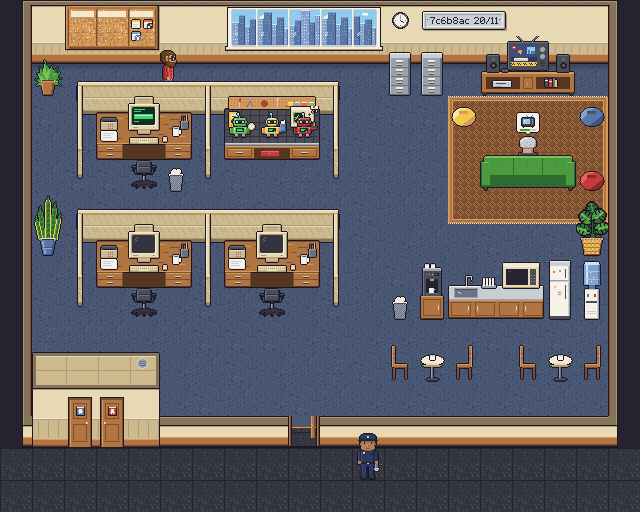
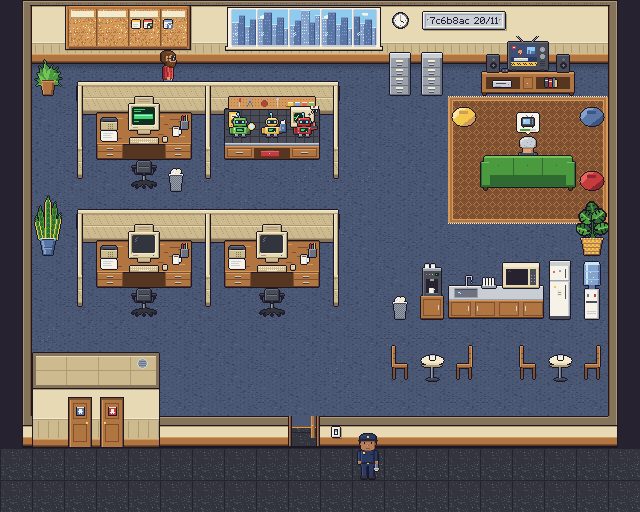
docs: o menu, os comandos e os créditos no padrão da tela; o quadro com quatro colunas e o interruptor
O briefing-tela-4 pede as três janelas que ainda estavam no visual antigo com
a moldura do Sobre, o quadro da parede com quatro colunas (decor.json e
cards.columns do cenário) e explica por que o interruptor não aparece no
mundo ao vivo: os sistemas OnSessionStart não rodam na recuperação.

A folha de ícones ganha a lâmpada acesa e a apagada (light_on, light_off),
o interruptor é redesenhado na faixa creme da parede de baixo, e as prévias
da noite e da versão mostram o quadro novo.

Claude-Session: https://claude.ai/code/session_01BURa66aaHAm5tC4w4uDtJx

Changed region(s): [[0.1875, 0.0, 0.3125, 0.125], [0.5, 0.8125, 0.5312, 0.875]]

diff --git a/docs/design/escritorio-arte/escritorio-arte.html b/docs/design/escritorio-arte/escritorio-arte.html
@@ -349,6 +349,19 @@ function relogio(h = 10) {
   return s;
 }
 
+// ---- o interruptor (22/11): na face da parede de baixo, à direita da porta (ADR-0088). Só o espelho
+// com a tecla, sem fundo: a parede é do terreno. Apagado, a tecla embaixo; aceso, em cima, com o led âmbar.
+function interruptor(aceso) {
+  const s = new Spr(T, T);
+  s.r(12, 11, 8, 10, 'branco').vl(19, 12, 20, 'cinzaCl').hl(13, 19, 20, 'cinzaCl');      // o espelho
+  s.hl(12, 19, 10, 'contorno').hl(12, 19, 21, 'contorno').vl(11, 11, 20, 'contorno').vl(20, 11, 20, 'contorno');
+  s.p(21, 12, 'begeSomb').vl(21, 13, 21, 'begeSomb').hl(13, 21, 22, 'madEsc');           // a sombra na parede
+  s.r(14, 13, 4, 6, 'cinzaCl').hl(14, 17, 13, 'contorno').hl(14, 17, 18, 'contorno').vl(14, 13, 18, 'contorno').vl(17, 13, 18, 'contorno');
+  if (aceso) s.r(15, 14, 2, 2, 'branco').r(15, 16, 2, 2, 'cinza').p(18, 12, 'ledAmbar');   // a tecla para cima
+  else s.r(15, 14, 2, 2, 'cinza').r(15, 16, 2, 2, 'branco');                             // a tecla para baixo
+  return s;
+}
+
 // ---- quadro dos pedidos: um módulo por coluna (começo, meio, fim)
 function quadroPedidos(tipo) {
   const s = new Spr(T, 64);
@@ -1431,6 +1444,21 @@ const PR_RAMO = ponta => [
 ].map((l, k) => l.replace(/#/g, k < 5 ? ponta : 'w'));
 // A ficha do quadro, como na parede (9 × 12 + contorno)
 const FICHA_IC = ['yyyyyyyyy', 'yyyyyyyyy', 'wwwwwwwww', 'wllllllww', 'wwwwwwwww', 'wlllllwww', 'wwwwwwwww', 'wllllwwww', 'wwwwwwwww', 'wwwwwwwww', 'wwwwwwwww', 'RRRRRRRRR'];
+// A lâmpada: o bulbo (cor, luz, brilho) e a rosca cinza
+const LAMPADA = (c, L, w) => [
+  '..cccc..'.replace(/c/g, c),
+  '.cwLLcc.'.replace(/c/g, c).replace(/L/g, L).replace('w', w),
+  'cwLLcccc'.replace(/c/g, c).replace(/L/g, L).replace('w', w),
+  'cLLccccc'.replace(/c/g, c).replace(/L/g, L),
+  'cLcccccc'.replace(/c/g, c).replace(/L/g, L),
+  'cccccccc'.replace(/c/g, c),
+  '.cccccc.'.replace(/c/g, c),
+  '..cccc..'.replace(/c/g, c),
+  '..llll..',
+  '..ssss..',
+  '..llll..',
+  '...ss...',
+];
 const ICONES_DESENHO = {
   // ---- o escritório
   trabalhar: () => ic([grade([
@@ -1809,6 +1837,14 @@ const ICONES_DESENHO = {
     '..aaAAAAaa....',
     '....aaaa......',
   ]), 0, 1]),
+  // ---- a luz da sala (22/11): a lâmpada acesa e a apagada, no menu do interruptor
+  acender: () => ic([grade([
+    '.Y..........Y.',
+    '..Y........Y..',
+    '..............',
+    'Y............Y',
+  ], false), 0, 1], [grade(LAMPADA('y', 'Y', 'w')), 3, 1]),
+  apagar: () => ic([grade(LAMPADA('c', 'l', 'l')), 3, 1]),
 };
 const ICONES = Object.keys(ICONES_DESENHO);
 const ICONES_COL = 8;
@@ -1821,7 +1857,7 @@ const ICONES_ACOES = {
   dinheiro: ['vender', 'comprar'], cozinhar: ['cozinhar', 'o tacho'], adubar: ['adubar', 'compostar'], encomenda: ['aceitar a encomenda', 'entregar a encomenda'],
   fincar: ['fincar'], mandar: ['as ordens ao ajudante', 'contratar', 'dispensar'],
   pr: ['o PR aberto'], ci_verde: ['o PR com os testes verdes'], ci_vermelho: ['o PR com os testes vermelhos'], mesclado: ['o PR mesclado'],
-  atualizando: ['a troca de versão, no HUD'],
+  atualizando: ['a troca de versão, no HUD'], acender: ['light_on'], apagar: ['light_off'],
 };
 function icone(nome) { return ICONES_DESENHO[nome](); }
 
@@ -2748,8 +2784,11 @@ const FOLHAS = [
   { nome: 'relogio', grupo: 'parede do fundo', q: [32, 64], col: 12, lin: 1, pegada: null, ancora: [16, 64], camada: 'parede',
     quadros: ['12h', '1h', '2h', '3h', '4h', '5h', '6h', '7h', '8h', '9h', '10h', '11h'], nota: 'o quadro é a hora % 12; o ponteiro dos minutos fica no 12',
     desenha: c => relogio(c) },
+  { nome: 'interruptor', grupo: 'parede de baixo', q: [32, 32], col: 2, lin: 1, pegada: [1, 1], ancora: [16, 32], camada: 'parede',
+    quadros: ['apagado', 'aceso'], desenha: c => interruptor(c === 1),
+    nota: 'o interruptor da luz (ADR-0088), por cima do tile da parede de baixo à direita da porta: o espelho fica na faixa creme da parede; aceso, a tecla sobe e o led âmbar acende (emissivo)' },
   { nome: 'quadro_pedidos', grupo: 'parede do fundo', q: [32, 64], col: 3, lin: 1, pegada: null, ancora: [16, 64], camada: 'parede',
-    quadros: MODULOS, nota: 'um módulo por coluna; a faixa clara é onde a tela escreve o nome', desenha: c => quadroPedidos(MODULOS[c]) },
+    quadros: MODULOS, nota: 'um módulo por coluna: as quatro do quadro (a fazer, fazendo, entregue e aceito) são começo, meio, meio e fim, nas colunas 2 a 5 da parede; a faixa clara é onde a tela pode escrever o nome', desenha: c => quadroPedidos(MODULOS[c]) },
   { nome: 'fichas', grupo: 'parede do fundo', q: [10, 10], col: 5, lin: 1, pegada: null, ancora: [5, 10], camada: 'parede',
     quadros: FICHA_CORES, nota: 'a tela pendura as fichas conforme o estado real; o selo do PR pousa em selo: [x, y]', desenha: c => ficha(c),
     extra: () => ({ selo: SELO_NA_FICHA }) },
@@ -2909,7 +2948,7 @@ for (const l0 of [3, 7]) {
 const temDiv = (c, l) => DIV.has(c + ',' + l);
 function mascara(c, l) { return (temDiv(c, l - 1) ? 1 : 0) | (temDiv(c + 1, l) ? 2 : 0) | (temDiv(c, l + 1) ? 4 : 0) | (temDiv(c - 1, l) ? 8 : 0); }
 const TAPETE = { c0: 14, c1: 18, l0: 3, l1: 6 };
-const QUADRO_COLS = 3;      // o quadro dos pedidos: a fazer, fazendo, feito (colunas 2 a 4 da parede)
+const QUADRO_COLS = 4;      // o quadro dos pedidos: a fazer, fazendo, entregue, aceito (colunas 2 a 5 da parede)
 
 // ---- a luz. Três fases: 'dia' (o sol), 'luzes' (18h às 21h, as luminárias acesas) e 'escuro'
 // (21h em diante, tudo apagado; o vigia anda com a lanterna). À noite, o corredor fica na
@@ -3146,9 +3185,10 @@ function fundo(cena) {
   for (let l = TAPETE.l0; l <= TAPETE.l1; l++) for (let c = TAPETE.c0; c <= TAPETE.c1; c++)
     ctx.drawImage(quadro('tapete', c === TAPETE.c0 ? 0 : c === TAPETE.c1 ? 2 : 1, l === TAPETE.l0 ? 0 : l === TAPETE.l1 ? 2 : 1).canvas(), c * T, l * T);
   const na = (nome, c, col) => ctx.drawImage(quadro(nome, c).canvas(), col * T, 0);
-  ['comeco', 'meio', 'fim'].forEach((t, i) => na('quadro_pedidos', MODULOS.indexOf(t), 2 + i));
+  ['comeco', 'meio', 'meio', 'fim'].forEach((t, i) => na('quadro_pedidos', MODULOS.indexOf(t), 2 + i));
   const noite = cena.luz !== 'dia';
   ['comeco', 'meioA', 'meioB', 'meioA', 'fim'].forEach((t, i) => na(noite ? 'janela_noite' : 'janela_dia', JANELAS.indexOf(t), 7 + i));
+  ctx.drawImage(quadro('interruptor', noite ? 1 : 0).canvas(), (PORTA[0] + 1) * T, PORTA[1] * T);
   na('relogio', cena.hora % 12, 12);
   return cv;
 }
@@ -3171,7 +3211,7 @@ function objetos(cena, t) {
     if (sl) o.push({ spr: quadro('selos', SELOS.indexOf(sl)), x: x + SELO_NA_FICHA[0], y: y + SELO_NA_FICHA[1], base: -1, ordem: 0 });
   };
   if (typeof e.ficha === 'number') fichaEm(1, (2 + e.ficha) * T + (e.ficha === 0 ? 5 : 2) + 1, 19, e.ficha === 2 && e.selo);
-  if (cena.fichasPr) { fichaEm(0, 4 * T + 15, 19, 'ci_verde'); fichaEm(3, 4 * T + 3, 31, 'mesclado'); }
+  if (cena.fichasPr) { fichaEm(0, 4 * T + 15, 19, 'ci_verde'); fichaEm(3, 5 * T + 3, 19, 'mesclado'); }
   // a placa da versão, na parede ao lado do relógio, com o commit e a data
   let [, commit, data] = cena.placa ? cena.placa(t) : ['rodando', '7c6b8ac', '20/11'];
   if (PLACA_TEXTO) [commit, data] = PLACA_TEXTO;

diff --git a/docs/design/briefing-tela-4.md b/docs/design/briefing-tela-4.md
@@ -1,0 +1,211 @@
+# Pedido de tela, 4: o menu, os comandos, os créditos, o quadro com quatro colunas e o interruptor
+
+A continuação do [briefing-tela-3.md](briefing-tela-3.md), pedida pelo usuário em 22/11. São cinco partes:
+
+1. As três janelas que ainda estão no visual antigo passam para o padrão da tela retrô:
+   - o menu do clique direito;
+   - os comandos (o `?` do monitor);
+   - os créditos (pelo Sobre).
+2. O quadro da parede ganha a quarta coluna. Hoje ele tem três, e a tela mostra "Entregue" e "Aceito" juntos na terceira.
+3. O interruptor sumiu da sala. Abaixo, onde ele se perdeu e como corrigir.
+
+**O que não muda:**
+- o contrato, a projeção e o kernel, fora a correção do item 3;
+- o que cada janela mostra: só a forma muda;
+- quem decide uma ação continua sendo o kernel. O menu só mostra.
+
+O canvas tem a página 7, "o menu, os comandos e os créditos". Nas telas dela as janelas abrem de verdade: o clique no sofá, o `?` e o "Créditos" do Sobre. Os prints estão em `escritorio-tela/`:
+
+| Arquivo | O quê |
+|---|---|
+| `menu.webp` | o print 1 refeito: o menu do sofá, colado ao clique |
+| `comandos.webp` | o print 2 refeito: os comandos, sobre a tela escurecida |
+| `creditos.webp` | o print 3 refeito: os créditos do escritório |
+| `janelas.webp` | as variantes: o menu em seis casos, os comandos do escritório e da fazenda, os créditos do escritório e da fazenda |
+
+---
+
+## 1. A moldura das três janelas
+
+É a mesma do Sobre, da prancheta e da ficha aberta.
+
+- **Bisel creme:**
+  - borda de 3 px `#1b1726`;
+  - fundo `#e7d9b4`;
+  - luz `inset 3px 3px 0 #f4ead0`;
+  - sombra `inset -4px -4px 0 #ae9b72`;
+  - sombra de fora `0 18px 44px rgba(0, 0, 0, .55)`.
+- **A barra de título listrada do Mac clássico,** com 28 px:
+  - a classe `.listras` que a tela já tem;
+  - a caixinha de fechar de 18 px à esquerda;
+  - o título no meio, em Pixelify Sans 700, 14 px, sobre um retalho creme.
+- **Os botões** são os da prancheta:
+  - o principal amarelo `#f2c94c`, com a sombra `#d49b5d`;
+  - o secundário creme `#f4ead0`.
+
+## 2. O menu do clique direito (`panels/menu.ts`)
+
+O print 1 era uma lista solta com um "Fechar" embaixo. Agora o menu é uma janelinha com o título na barra, um ícone por ação e o porquê de cada coisa.
+
+### Onde abre
+
+- **Colado ao ponto do clique,** com um rabicho de 13 px apontando para ele.
+  - O ponto do clique ganha uma bolinha amarela de 8 px.
+  - O menu abre à direita do clique e vira para a esquerda quando não cabe; o rabicho vai junto.
+  - Ele sobe quando não cabe embaixo e nunca sai da tela do monitor.
+- **A coisa clicada ganha um contorno tracejado amarelo** de 2 px (`#f2c94c`, raio 4) no retângulo do sprite, enquanto o menu está aberto.
+- **Para fechar:** clicar fora, `Esc` ou a caixinha da barra. O botão "Fechar" sai.
+
+### As linhas
+
+- **Cada linha é um botão** `role="menuitem"` de 44 px de altura. Ela tem:
+  - o ícone de 32 px (o de 16 px da folha `icones`, em 2x);
+  - o rótulo em Inter 600, 14 px;
+  - embaixo, o `detail`, em 12 px `#563521`.
+- **O ícone** vem do mesmo mapa dos balões: `bubbles.icons.actions` no `art.json` do gênero `office`, com os quadros do `baloes.json`.
+  - Uma ação sem ícone ganha uma bolinha vazada de 8 px, como no "Andar até aqui".
+  - Uma entrada só da tela, como o "Ver a tela" do dev, usa o mesmo desenho.
+- **Foco e mouse em cima:**
+  - fundo `#f2c94c`;
+  - borda de 2 px `#1b1726`;
+  - um `↵` pequeno à direita da linha com foco.
+- **Uma ação que não vale agora** (`blocked`):
+  - continua na lista, com `aria-disabled="true"` e o cursor `not-allowed`;
+  - o ícone fica a 40%, em cinza;
+  - o motivo aparece em itálico, 12 px, `#7e5032`;
+  - exemplo: "Acender a luz · a luz já está acesa".
+- **Os parâmetros:** a ação que tem o que escolher vira um bloco.
+  - O bloco tem o fundo `#f4ead0` e um anel `#cdbb8f`.
+  - Os campos ficam embaixo da linha, recuados 48 px.
+  - Cada campo tem o rótulo em 12 px 600 `#563521` (mínimo 58 px) e:
+    - o `select` com a borda de 2 px, o fundo `#f6f2e8` e o triângulo desenhado; ou
+    - o número com `−` e `+` nas pontas.
+- **A ficha da opção** (o `option-sheet`): o retrato de 40 px e a nota, numa caixa clara embaixo do campo. Ela muda com o campo.
+- **O interior de um contêiner** (o `contents`) fica em cima das linhas, num bloco "Dentro":
+  - à direita, "ocupa X de Y" em JetBrains Mono;
+  - uma régua de 12 células numa moldura escura, cada coisa com a cor da sua amostra e o resto claro;
+  - a lista: a amostra, o nome ×quantidade e, à direita, "ocupa N" em 11 px.
+- **Nada a fazer:** "Nada a fazer aqui." em itálico, numa janela pequena sem rodapé.
+- **O rodapé:** "**shift** + clique põe na fila · **Esc** fecha", em 11 px.
+
+### O teclado e o leitor de tela
+
+- O menu é `role="menu"`, com `aria-labelledby` apontando para o título.
+- Ao abrir, o foco vai para a primeira linha pronta.
+- `↑` e `↓` andam pelas linhas prontas.
+- `Enter` faz a ação.
+- `shift + Enter` e `shift + clique` põem a ação na fila e deixam o menu aberto, como hoje.
+
+### Os ícones novos da luz
+
+A folha `icones.png` ganhou dois quadros nos espaços livres, sem mudar o tamanho da folha. O `metadados.json` já os traz.
+
+| Quadro | Coluna, linha | Ação |
+|---|---|---|
+| `acender`, a lâmpada amarela com o brilho | 6, 3 | `light_on` |
+| `apagar`, a lâmpada cinza | 7, 3 | `light_off` |
+
+Rode `make arte-escritorio` e acrescente `"light_on": "acender", "light_off": "apagar"` em `bubbles.icons.actions`. O balão sobre a cabeça de quem acende a luz ganha o ícone de graça.
+
+## 3. Os comandos (`panels/help.ts`)
+
+O print 2 era uma lista de texto com "Entendi". Agora é uma janela "Comandos" sobre a tela escurecida (`rgba(23, 20, 31, .62)`, como o Sobre), com 660 px de largura e duas colunas.
+
+- **Mouse:**
+  - um mouse desenhado de 20 × 28 px, com o botão da vez em amarelo;
+  - ao lado, o nome do gesto em mono 11 px: "clique", "direito", "arrastar";
+  - o `shift` + clique é a tecla mais o mouse.
+- **Teclado:**
+  - teclas de 28 px, com a borda de 2 px, o fundo `#f6f2e8`, a sombra de baixo `#cdbb8f` e o texto em JetBrains Mono 700, 12 px;
+  - as setas em T invertido.
+- **Só aparece o que vale neste mundo e nesta tela:**
+  - "da grama" no texto do clique direito: só na fazenda;
+  - "arrastar" e "espaço": só quando o mapa é maior que a tela, porque no escritório a sala cabe inteira;
+  - "P": só quando a tela pode pausar, no sandbox.
+
+  Com isso, a lista `COMMANDS` vira uma função de três coisas: o gênero do mundo, a câmera e o poder de pausar.
+- **Embaixo,** "Aparece sozinha na primeira vez que você assume; depois, pelo **?** do monitor.", e o botão "Entendi" em Pixelify. O "Entendi" guarda o já-visto como hoje.
+
+## 4. Os créditos (`panels/credits.ts`)
+
+O print 3 era uma lista escura e longa, uma linha por arquivo, com a frase "Pixel art do Liberated Pixel Cup (LPC)…". **Essa frase está errada no escritório:** toda a arte dele é desenho próprio, MIT.
+
+A janela nova tem 740 px de largura, com a altura da tela no máximo e o meio rolando.
+
+- **O cabeçalho:**
+  - o ícone do Campsverso;
+  - "Quem fez o escritório" (ou "a fazenda") em Pixelify 22;
+  - a frase de abertura;
+  - as pílulas de resumo: as peças, os grupos de autores e as licenças.
+- **A frase de abertura sai dos dados:**
+  - **Nenhuma linha aponta para o opengameart:** "Toda a arte deste mundo é desenho próprio do Campsverso, feito em código. As fontes vêm junto com a tela."
+  - **Senão:** "A arte vem do Liberated Pixel Cup (LPC) e de quem a estendeu; o que faltava foi desenhado no mesmo estilo. Cada bloco junta as peças de um mesmo grupo de autores, com as licenças."
+- **Um bloco por grupo de autores,** juntando as linhas de todas as camadas com os mesmos `authors` e `licenses`. Cada bloco tem:
+  - os autores em negrito;
+  - as licenças em selos: MIT verde, CC-BY-SA amarelo, GPL laranja, CC0 cinza, OFL azul;
+  - o link em mono 11 px;
+  - os arquivos como fichinhas em mono 12 px, cada uma com a nota no `title`;
+  - um `<details>` "o que cada peça é", com as notas.
+- **As linhas que remetem a outro arquivo** (`ver cartridges/office/art/CREDITS.csv`, o `map-visual.tmj`) entram como uma fichinha no bloco das peças que elas montam. No escritório, isso dá um bloco só, com 31 fichinhas.
+- **As fontes da tela** ficam num bloco tracejado, todas OFL 1.1:
+  - Pixelify Sans, de Stefie Justprince;
+  - Inter, de Rasmus Andersson;
+  - JetBrains Mono, da JetBrains;
+  - Patrick Hand, de Patrick Wagesreiter.
+
+  A lista sai do que o `main.ts` importa. Se a tela do dev adotar a VT323 (de Peter Hull), ela entra aqui.
+- **No pé da janela:** "dos arquivos `CREDITS.csv` de cada camada", "Voltar ao Sobre" e "Fechar".
+- **No Sobre,** o "Créditos" vira um botão que abre esta janela no lugar dele. O "Voltar ao Sobre" volta.
+
+## 5. O quadro da parede com quatro colunas
+
+A arte já serve: o `quadro_pedidos.png` é feito de módulos de começo, meio e fim, um por coluna, e a quarta coluna é um meio a mais. **A mudança é só no cartucho `office_campsverso`:**
+
+- **`art/decor.json`:** as peças do quadro na linha 0 passam a ser:
+
+  | Coluna | Peça |
+  |---|---|
+  | 2 | `quadro-comeco` |
+  | 3 | `quadro-meio` |
+  | 4 | `quadro-meio` |
+  | 5 | `quadro-fim` |
+
+  A janela continua nas colunas 7 a 11; a coluna 6 fica livre. O texto do `about` passa de "três colunas" para quatro.
+- **`art/art.json`, em `cards.columns`:** `"aceito": 3`. Antes era 2, e as fichas aceitas caíam por cima das entregues.
+  - O resto não muda: `x: 64`, `column_width: 32`, `first_inset: 6` e `inset: 3`.
+  - A coluna 3 começa em `x = 64 + 3 × 32 = 160`, o tile 5, que é o módulo de fim.
+
+As prévias `sala_noite` e `sala_versao` em `escritorio-arte/previa/` já mostram o quadro com quatro módulos. As outras prévias ainda mostram três, até a próxima vez que forem regravadas.
+
+## 6. O interruptor: onde ele se perdeu
+
+**Nada foi apagado.** A arte, o `kind` `light_switch` no `art.json` e o lugar no `escritorio.yaml` (`light_switch: { x: 10, y: 13 }`) estão todos no `main`.
+
+**O que falta é a entidade, no mundo ao vivo:**
+- **Quem cria o interruptor:** o sistema `lights` (ADR-0088) cria a entidade `interruptor` quando ela falta. Ele roda em dois gatilhos: `OnSessionStart()` e o `DailyAt` das 18:00 e das 21:00.
+- **Por que ele nunca rodou:** o `office-campsverso-01` foi criado antes da ADR-0088 e volta de um snapshot a cada `make escritorio`.
+  - No caminho da recuperação, `recovery.py` devolve o mundo "pronto" sem chamar `KernelCore.start()`.
+  - Então nenhum sistema `OnSessionStart` roda num mundo retomado.
+  - Conferido em 22/11: o snapshot das 17:00 e a projeção das 17:32 não têm `interruptor`.
+- **O que deve acontecer:** o `DailyAt` das 18:00 deve criá-lo hoje. Até lá, a sala fica sem ele.
+
+**A correção proposta** é um destes caminhos, nesta ordem de preferência:
+
+1. **O kernel roda os sistemas `OnSessionStart` também ao retomar um mundo.**
+   - A sessão começa nos dois casos.
+   - Os sistemas desse gatilho precisam ser idempotentes. O `lights` já é: só cria o que falta.
+   - Com isso, toda peça nova de um cartucho aparece em mundos antigos na primeira subida.
+2. **Ou o `lights` também roda a cada minuto enquanto o interruptor não existe.** É mais simples, mas o problema volta na próxima peça que nascer da mesma forma.
+
+**O teste e2e:**
+1. Retomar um snapshot sem o interruptor.
+2. Dar um passo.
+3. Conferir que a entidade existe, apagada antes das 18:00 e acesa depois.
+
+Ajuste também a docstring do `lights`, que promete o interruptor "ao começar a sessão".
+
+**A arte do interruptor também foi refeita** (`escritorio-arte/folhas/interruptor.png`, 64 × 32: dois quadros de 32 × 32, apagado e aceso).
+- O espelho branco tem o contorno escuro e a sombra na parede.
+- Ele fica na faixa creme da parede de baixo, à direita da porta.
+- Aceso, a tecla de cima clareia e um led âmbar de 1 px acende, emissivo à noite.
+- Ela pode substituir a que o `office_art.py` gera hoje, a placa creme de 10 × 12. A pegada, a âncora e os quadros são os mesmos do `art.json` (`frame` 0 e 1 em `acesa`).

diff --git a/docs/design/README.md b/docs/design/README.md
@@ -173,6 +173,18 @@ O terceiro pedido da tela: [briefing-tela-3.md](briefing-tela-3.md). Ele dá for
 - **Nada muda nos dados:** a tela usa a sessão da projeção como ela é. As respostas do modelo entre os passos ficam como opção, porque pedem contrato.
 - **Os prints** estão em [escritorio-tela/](escritorio-tela/): `tela-dev`, `tela-dev-fim`, `tela-dev-vazia` e `tela-dev-celular`.
 
+## O menu, os comandos e os créditos (22/11)
+
+O quarto pedido da tela: [briefing-tela-4.md](briefing-tela-4.md).
+
+- **As três janelas que ainda estavam no visual antigo** ganham a moldura do Sobre: o bisel creme, a barra listrada com a caixinha de fechar e a Pixelify no título.
+  - **O menu do clique direito** abre colado ao clique, com um rabicho, e põe um contorno amarelo na coisa clicada. Cada ação tem o ícone, a duração e, quando não vale, o porquê. Os campos de escolha, o interior dos contêineres e a ficha da opção cabem no mesmo desenho.
+  - **Os comandos** vêm em duas colunas, Mouse e Teclado, com teclas e um mouse desenhados. Só aparece o que vale no mundo e na tela.
+  - **Os créditos** juntam as peças por grupo de autores, com as licenças em selos e as fontes da tela. A frase do LPC sai do escritório, que é todo desenho próprio.
+- **O quadro da parede passa a ter quatro colunas,** uma por coluna da tela. A mudança é só no `decor.json` e no `art.json` do cenário; a arte já servia.
+- **O interruptor não se perdeu:** o mundo ao vivo volta de um snapshot, e os sistemas `OnSessionStart` não rodam na recuperação. O briefing propõe a correção. A arte do interruptor foi refeita, e a folha de ícones ganhou a lâmpada acesa e a apagada.
+- **Os prints** estão em [escritorio-tela/](escritorio-tela/): `menu`, `comandos`, `creditos` e `janelas`.
+
 ## O estúdio (depois do escritório)
 
 Duas propostas do Claude Design para o estúdio do podcast, guardadas para quando ele chegar (ADR-0055 o põe depois do escritório, sobre a porta de efeitos externos que o escritório constrói).
